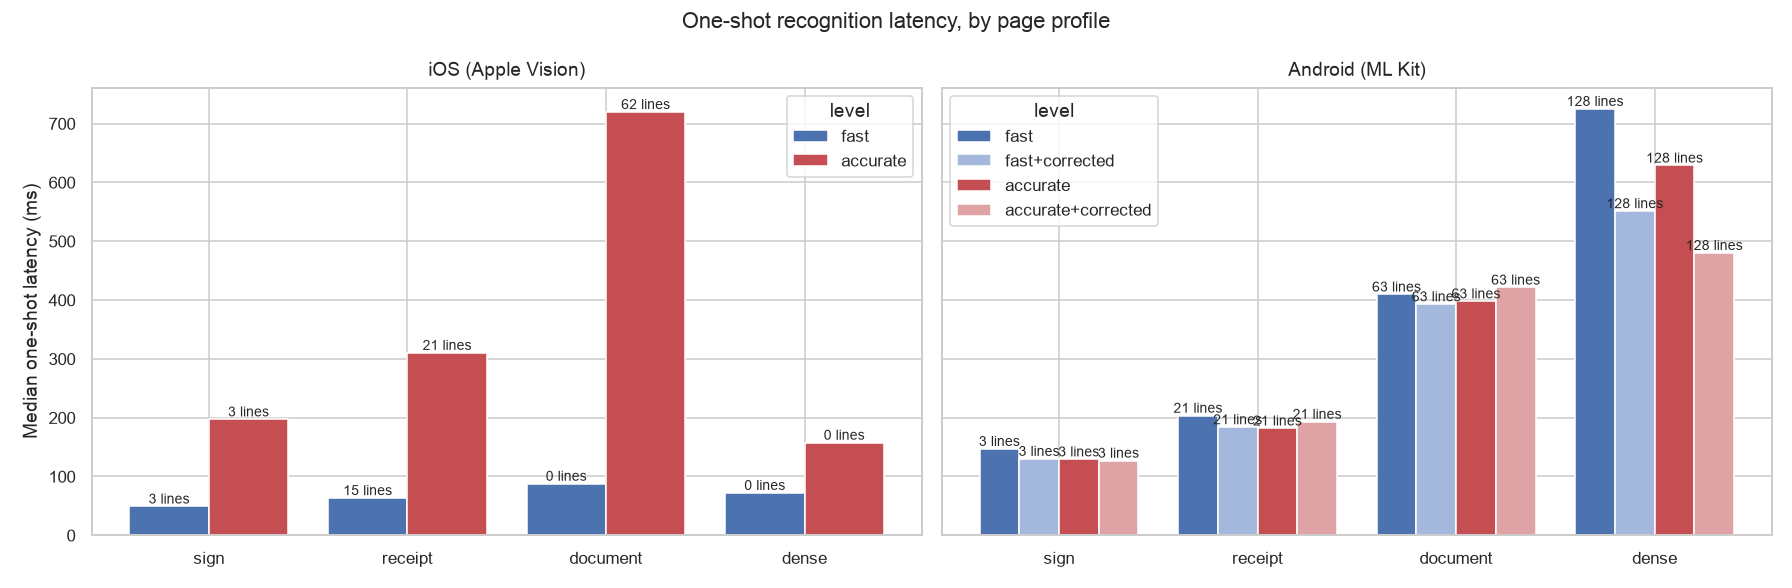
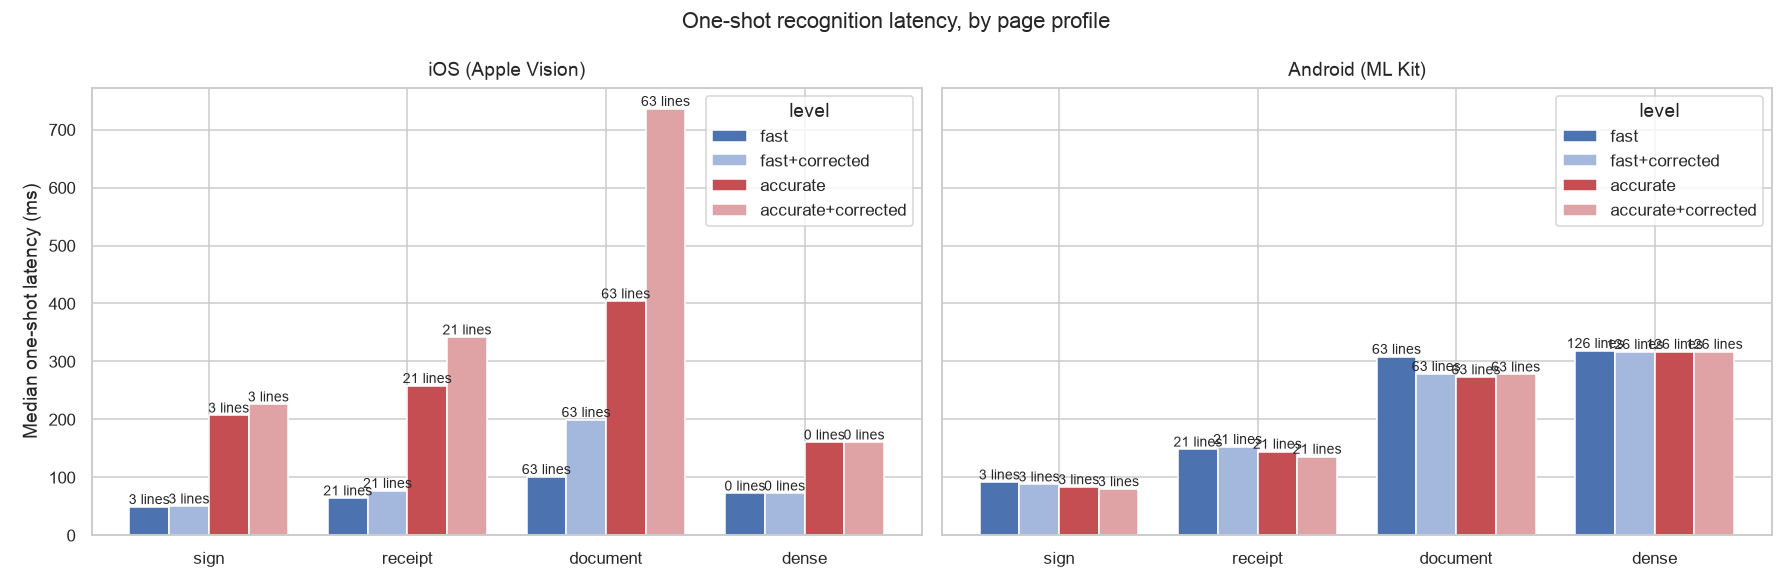
benchmark: Refresh the on-device reports

Changed region(s): [[0.0312, 0.1531, 1.0, 0.9184], [0.5312, 0.6735, 0.75, 0.8571]]

diff --git a/benchmark/reports/DEVICE_SUMMARY.md b/benchmark/reports/DEVICE_SUMMARY.md
@@ -4,8 +4,8 @@ How long `TextSight.recognizeImage` takes on real hardware, by page profile and 
 
 > **Scope.** One-shot API latency as an app sees it: image decode, ML inference, the native encode and the channel hop, all inside one number. Inference dominates, but this does not isolate it. Live-camera throughput is a different measurement and not covered here.
 
-Captured (Android): SDK `3.13.2` · package `0.2.2` · git `bf2d478` · N=3 · 2026-09-06T13:33:54.999847Z
-Captured (iOS): SDK `3.13.2` · package `0.2.0` · git `bef2acd` · N=3 · 2026-09-03T08:31:25.632612Z
+Captured (Android): SDK `3.13.3` · package `0.2.2` · git `384ea54` · N=3 · 2026-09-15T10:09:01.038441Z
+Captured (iOS): SDK `3.13.3` · package `0.2.2` · git `384ea54` · N=3 · 2026-09-15T10:09:59.609336Z
 
 Measured on iOS and Android, so your hardware will differ.
 
@@ -17,34 +17,42 @@ Measured on iOS and Android, so your hardware will differ.
 
 | Profile | Level | Lines | p50 (ms) | p95 (ms) |
 |---|---|--:|--:|--:|
-| sign | `fast` | 3 | 49.0 | 52.3 |
-| sign | `accurate` | 3 | 197.1 | 200.7 |
-| receipt | `fast` | 15 | 63.4 | 63.5 |
-| receipt | `accurate` | 21 | 310.3 | 311.7 |
-| document | `fast` | 0 *(read nothing)* | 87.7 | 88.3 |
-| document | `accurate` | 62 | 719.8 | 726.0 |
-| dense | `fast` | 0 *(read nothing)* | 72.1 | 73.5 |
-| dense | `accurate` | 0 *(read nothing)* | 157.6 | 160.0 |
+| sign | `fast` | 3 | 48.8 | 49.4 |
+| sign | `fast+corrected` | 3 | 49.8 | 50.0 |
+| sign | `accurate` | 3 | 206.8 | 214.3 |
+| sign | `accurate+corrected` | 3 | 225.9 | 227.9 |
+| receipt | `fast` | 21 | 63.9 | 65.4 |
+| receipt | `fast+corrected` | 21 | 76.8 | 76.9 |
+| receipt | `accurate` | 21 | 257.8 | 259.3 |
+| receipt | `accurate+corrected` | 21 | 341.6 | 342.2 |
+| document | `fast` | 63 | 100.6 | 101.0 |
+| document | `fast+corrected` | 63 | 199.2 | 200.4 |
+| document | `accurate` | 63 | 403.8 | 404.7 |
+| document | `accurate+corrected` | 63 | 735.9 | 759.1 |
+| dense | `fast` | 0 *(read nothing)* | 72.1 | 72.6 |
+| dense | `fast+corrected` | 0 *(read nothing)* | 72.2 | 73.9 |
+| dense | `accurate` | 0 *(read nothing)* | 160.2 | 162.0 |
+| dense | `accurate+corrected` | 0 *(read nothing)* | 160.3 | 160.4 |
 
 ## Android (ML Kit)
 
 | Profile | Level | Lines | p50 (ms) | p95 (ms) |
 |---|---|--:|--:|--:|
-| sign | `fast` | 3 | 146.9 | 147.1 |
-| sign | `fast+corrected` | 3 | 130.0 | 137.5 |
-| sign | `accurate` | 3 | 129.2 | 132.4 |
-| sign | `accurate+corrected` | 3 | 127.0 | 141.5 |
-| receipt | `fast` | 21 | 203.5 | 209.0 |
-| receipt | `fast+corrected` | 21 | 183.9 | 188.0 |
-| receipt | `accurate` | 21 | 181.7 | 191.9 |
-| receipt | `accurate+corrected` | 21 | 193.1 | 206.2 |
-| document | `fast` | 63 | 409.5 | 418.6 |
-| document | `fast+corrected` | 63 | 392.9 | 411.8 |
-| document | `accurate` | 63 | 397.9 | 416.6 |
-| document | `accurate+corrected` | 63 | 421.3 | 426.8 |
-| dense | `fast` | 128 | 725.1 | 809.5 |
-| dense | `fast+corrected` | 128 | 551.3 | 605.0 |
-| dense | `accurate` | 128 | 628.7 | 671.2 |
-| dense | `accurate+corrected` | 128 | 480.1 | 498.6 |
+| sign | `fast` | 3 | 91.3 | 92.6 |
+| sign | `fast+corrected` | 3 | 87.9 | 90.0 |
+| sign | `accurate` | 3 | 83.2 | 90.6 |
+| sign | `accurate+corrected` | 3 | 79.7 | 88.5 |
+| receipt | `fast` | 21 | 148.1 | 149.5 |
+| receipt | `fast+corrected` | 21 | 152.6 | 158.5 |
+| receipt | `accurate` | 21 | 144.4 | 156.2 |
+| receipt | `accurate+corrected` | 21 | 135.7 | 137.0 |
+| document | `fast` | 63 | 308.1 | 337.1 |
+| document | `fast+corrected` | 63 | 278.5 | 291.6 |
+| document | `accurate` | 63 | 272.8 | 291.2 |
+| document | `accurate+corrected` | 63 | 277.6 | 297.6 |
+| dense | `fast` | 126 | 318.2 | 332.3 |
+| dense | `fast+corrected` | 126 | 316.5 | 327.9 |
+| dense | `accurate` | 126 | 316.8 | 333.1 |
+| dense | `accurate+corrected` | 126 | 316.8 | 325.5 |
 
 ![One-shot latency](one_shot_latency.png)

diff --git a/benchmark/reports/LIVE_SUMMARY.md b/benchmark/reports/LIVE_SUMMARY.md
@@ -4,25 +4,27 @@ What the live path *sustains*, per recognition level. Windows where the phone wa
 
 > **Scope.** Recognized frames per second over a fixed window, and the gap between them. Under the single-in-flight backpressure that gap is roughly one recognition. Directional only: the numbers depend entirely on what the camera was pointed at, so keep the scene fixed when comparing runs.
 
-Captured (Android): SDK `3.13.2` · package `0.2.2` · git `bf2d478` · N=3 · 2026-09-06T18:36:21.446658Z
-Captured (iOS): SDK `3.13.2` · package `0.2.0` · git `21c6760` · N=3 · 2026-09-03T11:05:05.889411Z
+Captured (Android): SDK `3.13.3` · package `0.2.2` · git `384ea54` · N=3 · 2026-09-15T10:18:45.400559Z
+Captured (iOS): SDK `3.13.3` · package `0.2.2` · git `384ea54` · N=3 · 2026-09-15T10:19:16.174310Z
 
 Measured on iOS and Android, so your hardware will differ.
 
 - Only *recognized* frames are visible from Dart, so the drop ratio (camera frames delivered versus recognized) is not here. That needs native counters.
 - A gap at the camera's frame interval (about 33 ms at 30 fps) means recognition is keeping up and the camera is the limit, not the recognizer.
 - `level` is a no-op on Android, so its rows should match.
-- **Your users will see better than this for a while.** A cold phone boosts hard: this Sony held about 8 captures/s for the first minute of continuous scanning before settling to the sustained figure below, so a short scan feels roughly twice as fast as a long one. The run burns the device in first, so the table reports the floor rather than the peak.
+- **Your users will see better than this at first.** A cold phone boosts hard, so a short scan runs faster than a long one. The run burns the device in before measuring and keeps only the windows near the run's median rate, so this is the sustained floor, not the opening peak.
 - **lines** is the median per capture. Zero means nothing readable was in frame, which makes the throughput number meaningless as a recognition measure.
 
 | Platform | Level | Sustained cap/s | Gap p50 (ms) | Gap p95 (ms) | Lines | Window (s) |
 |---|---|--:|--:|--:|--:|--:|
-| iOS (Apple Vision) | `fast` | 30.0 | 33.3 | 34.4 | 8 | 8 |
-| iOS (Apple Vision) | `accurate` | 4.0 | 249.9 | 258.0 | 21 | 8 |
-| Android (ML Kit) | `fast` | 4.5 | 219.5 | 242.6 | 9 | 8 |
-| Android (ML Kit) | `fast+corrected` | 4.5 | 218.5 | 233.5 | 8 | 8 |
-| Android (ML Kit) | `accurate` | 4.5 | 219.2 | 235.9 | 8 | 8 |
-| Android (ML Kit) | `accurate+corrected` | 4.5 | 217.8 | 256.2 | 10 | 8 |
+| iOS (Apple Vision) | `fast` | 19.0 | 52.8 | 56.4 | 9 | 8 |
+| iOS (Apple Vision) | `fast+corrected` | 16.9 | 59.5 | 62.8 | 9 | 8 |
+| iOS (Apple Vision) | `accurate` | 5.0 | 199.1 | 205.3 | 15 | 8 |
+| iOS (Apple Vision) | `accurate+corrected` | 3.9 | 257.8 | 273.1 | 13 | 8 |
+| Android (ML Kit) | `fast` | 5.5 | 182.9 | 221.1 | 17 | 8 |
+| Android (ML Kit) | `fast+corrected` | 5.5 | 188.8 | 217.9 | 16 | 8 |
+| Android (ML Kit) | `accurate` | 5.4 | 189.5 | 207.3 | 17 | 8 |
+| Android (ML Kit) | `accurate+corrected` | 5.1 | 200.9 | 227.0 | 15 | 8 |
 
 Frames delivered by the capture session, as the preview receives them:
 
